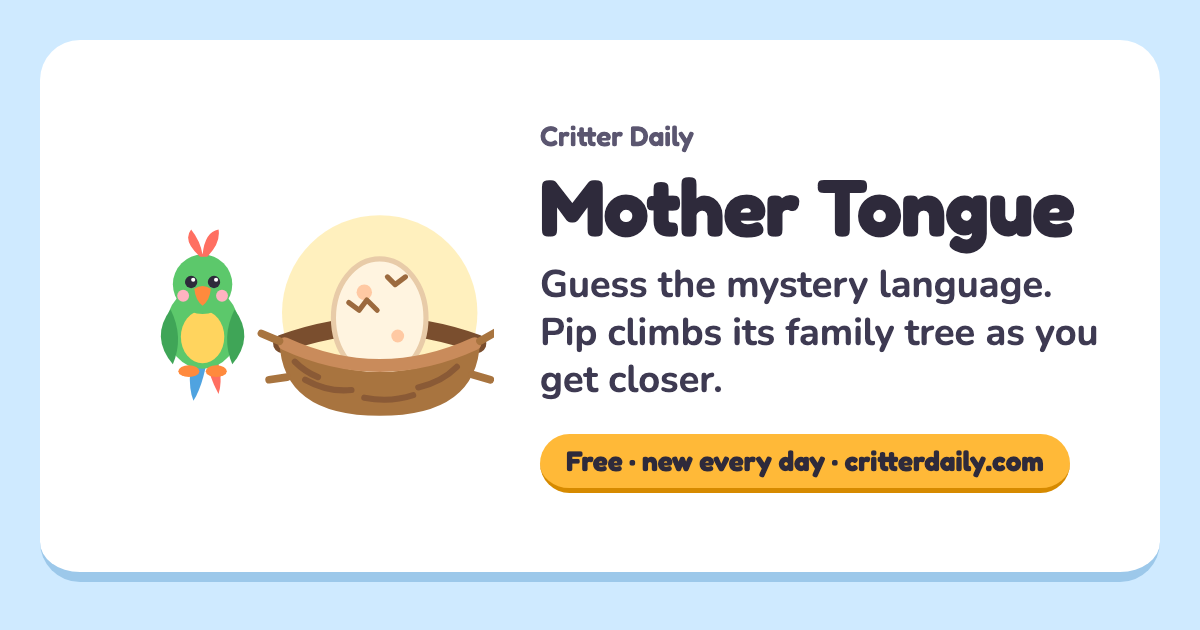
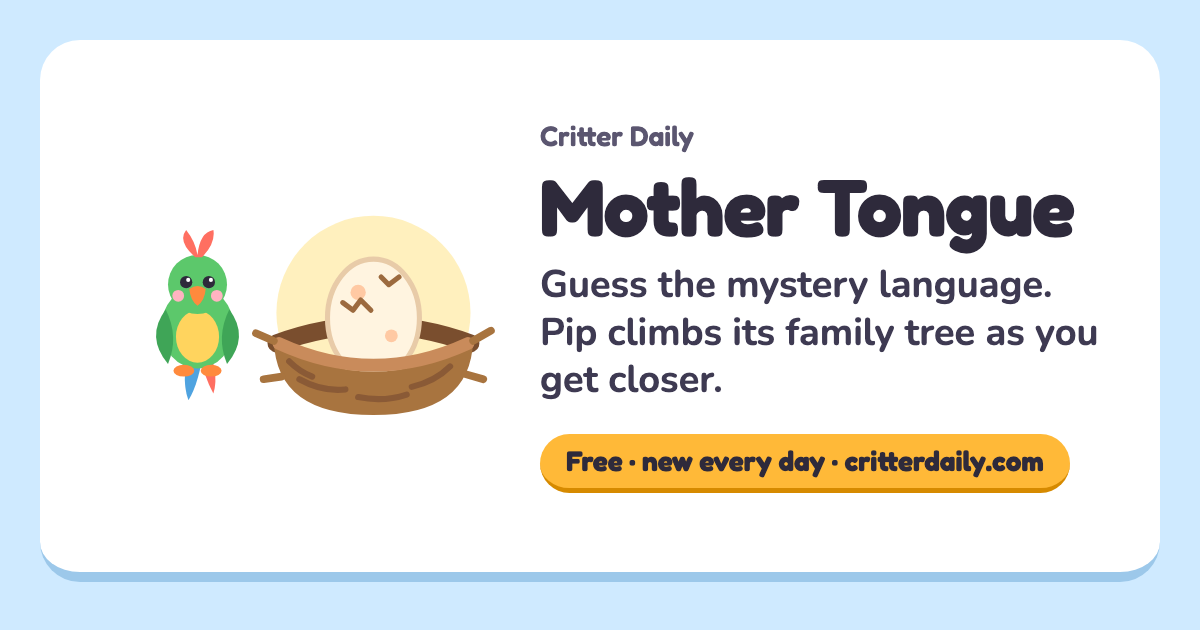
Update Critter Daily

Changed region(s): [[0.1233, 0.3619, 0.4317, 0.6635], [0.3392, 0.3619, 0.37, 0.3921], [0.2467, 0.3619, 0.2775, 0.3921]]

diff --git a/deep-cut/style.css b/deep-cut/style.css
@@ -550,6 +550,7 @@ main {
   width: 48px;
   height: 48px;
   flex: none;
+  overflow: visible; /* his waving paw */
 }
 
 /* The reveal: the answer, and Digby digging */
@@ -906,6 +907,7 @@ main {
 .medal svg {
   width: 200px;
   height: 122px;
+  overflow: visible; /* the ribbon's corners as the medal swings */
 }
 
 .medal-swing {
@@ -923,20 +925,23 @@ main {
   }
 }
 
+/* Each piece tumbles around its own middle as it falls, and fades before the bottom. */
 .confetti {
+  transform-box: fill-box;
+  transform-origin: center;
   animation: fall 3.2s linear infinite;
 }
 
 @keyframes fall {
   from {
-    transform: translateY(-20px) rotate(0deg);
+    transform: translateY(0) rotate(0deg);
     opacity: 0;
   }
   10% {
     opacity: 1;
   }
   to {
-    transform: translateY(130px) rotate(220deg);
+    transform: translateY(100px) rotate(220deg);
     opacity: 0;
   }
 }

diff --git a/mother-tongue/app.js b/mother-tongue/app.js
@@ -131,7 +131,7 @@ function hatchScene(solved) {
     <path d="M-150 90C-80 87 -10 83 60 77C92 74 118 70 140 64Q146 66 140 71C118 77 92 82 60 86C-10 94 -80 100 -150 106Z" fill="url(#branch-in)"/>
     <path d="M-96 92C-60 90 -30 88 10 86" stroke="#a8743f" stroke-width="3" fill="none" stroke-linecap="round"/>
     <path d="M50 80Q60 66 74 58" stroke="#8a5a36" stroke-width="5" fill="none" stroke-linecap="round"/>
-    ${leaf(74, 58, -40)}${leaf(62, 70, -110, "#3fa557")}${leaf(-70, 95, 130, "#3fa557")}${leaf(-48, 92, 100)}${leaf(140, 67, -25, "#3fa557")}
+    ${leaf(74, 58, -40)}${leaf(62, 70, -110, "#3fa557")}${leaf(-70, 92, 120, "#3fa557")}${leaf(-48, 92, 100)}${leaf(126, 70, -30, "#3fa557")}
     <g transform="translate(-14 52) scale(1.25)">
       ${NEST_BACK}
       <g transform="translate(0 -4)">${solved ? chick : sleeping}</g>

diff --git a/mother-tongue/style.css b/mother-tongue/style.css
@@ -626,6 +626,13 @@ main {
   background: var(--sun);
 }
 
+/* Pip hops 8 units, which lifts his crest past the top of his box: let it show. */
+.pip,
+.roots-pip,
+.sheet-pip {
+  overflow: visible;
+}
+
 /* Pip's feet are 14 of its 80 units above the bottom of its box: on the branch. */
 .pip {
   position: absolute;

diff --git a/style.css b/style.css
@@ -109,6 +109,7 @@ a {
   grid-row: 1 / span 2;
   width: 84px;
   height: 84px;
+  overflow: visible; /* hops and waves reach past the box */
 }
 
 .game-text {
